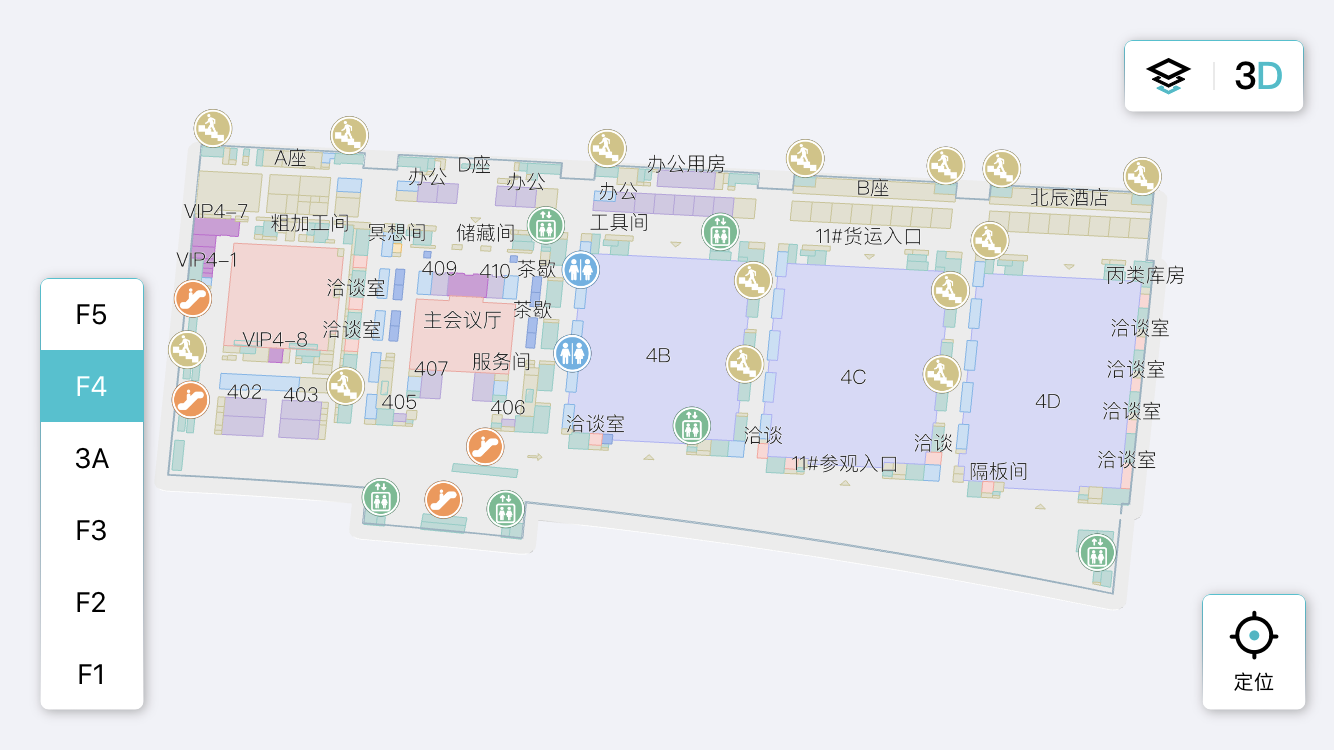
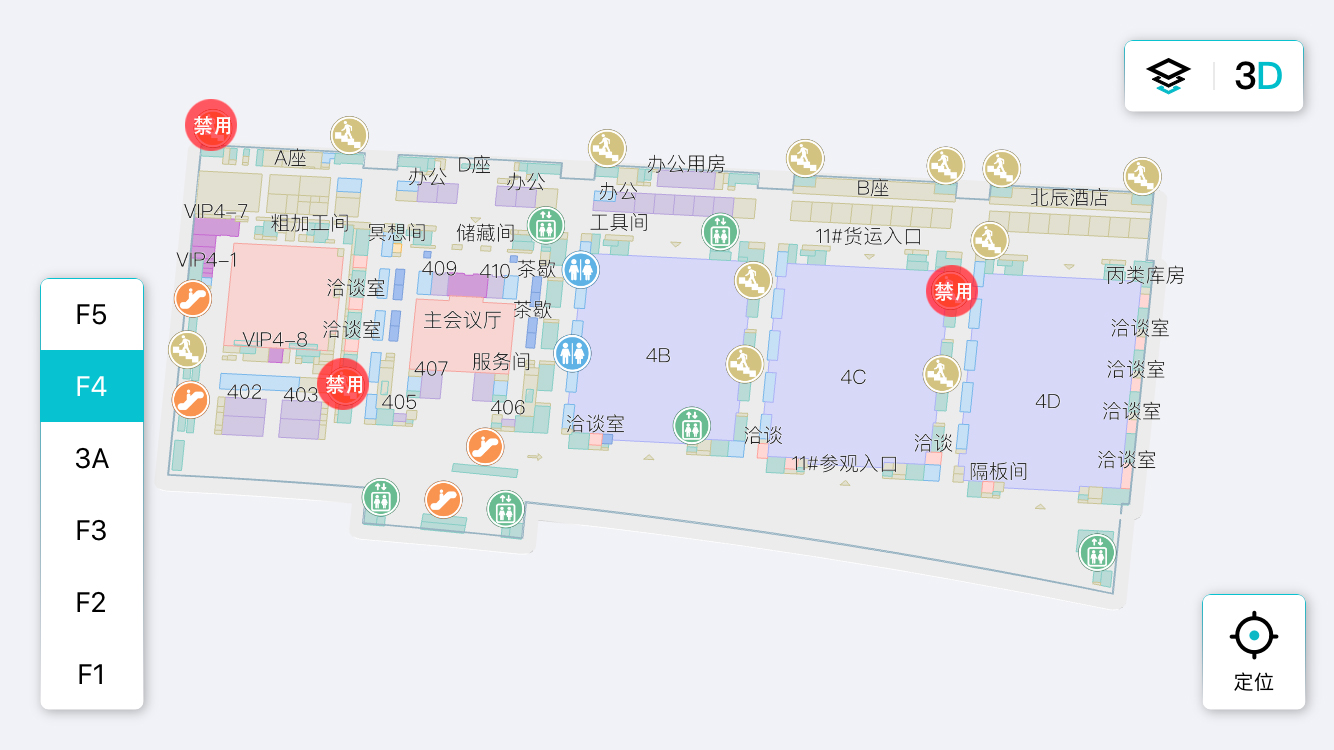
绘制禁用逃生出口

diff --git a/src/util/Draw_traj.js b/src/util/Draw_traj.js
@@ -1,17 +1,17 @@
 function arrowTo(ctx, p1, p2, arrowOptions) {
         // 初始化参数
         var opts = {
-            startOffset: 5,             // 起点的留空长度
-            endOffset: 5,               // 终点的留空长度
+            startOffset: 2,             // 起点的留空长度
+            endOffset: 2,               // 终点的留空长度
             offset: 0,                  // 偏移位（模拟动画效果用, 使用时建议将justifyAlign设为false） 
             color: '#E6E6FA',           // 默认颜色 
             activeIndex: -1,            // 高亮箭头的索引, 超出回到一圈起始位置。(默认-1，不做高亮处理) 
             activeColor: "#00FF00",     // 高亮颜色(Highligh Color)
-            stepLength: 10,             // 间隔(步长)
+            stepLength: 5,             // 间隔(步长)
             justifyAlign: true,         // 两端对齐(两边撑满, 配合activeIndex > 0时使用) 
-            arrowLength: 15,            // 箭头长度(柄到顶点)            
+            arrowLength: 10,            // 箭头长度(柄到顶点)            
             arrowTheta: 25,             // 箭头两边的夹角（度数） 
-            arrowHeadlen: 6,            // 箭头两边斜边长度 
+            arrowHeadlen: 4,            // 箭头两边斜边长度 
             arrowLineWidth: 1,          // 画箭头的线宽度
             lineWidth: 1,               // 两点间的连丝宽度（>0时，有效）
         };
@@ -20,21 +20,7 @@ function arrowTo(ctx, p1, p2, arrowOptions) {
         if (arrowOptions !== undefined && arrowOptions !== null) {
             opts = Object.assign(opts, arrowOptions);
         }
- 
- 
-        // 画连结两点的线
-//         if (opts.lineWidth > 0) {
-//             ctx.beginPath();
-//             ctx.moveTo(p1.x, p1.y);
-//             ctx.lineTo(p2.x, p2.y);
-//             //颜色，线宽
-//             ctx.strokeStyle = opts.color;
-//             ctx.lineWidth = opts.lineWidth;
-//             ctx.stroke();
-//             ctx.closePath();
-//         }
- 
- 
+
         // 计两点距离
         var len = Math.floor(Math.sqrt(Math.pow(p1.x - p2.x, 2) + Math.pow(p1.y - p2.y, 2)));
         // 计算画多少个箭头(注意：最后一个箭头是不需要间隔(步长)，所以可用长度要加一个opts.stepLength)
